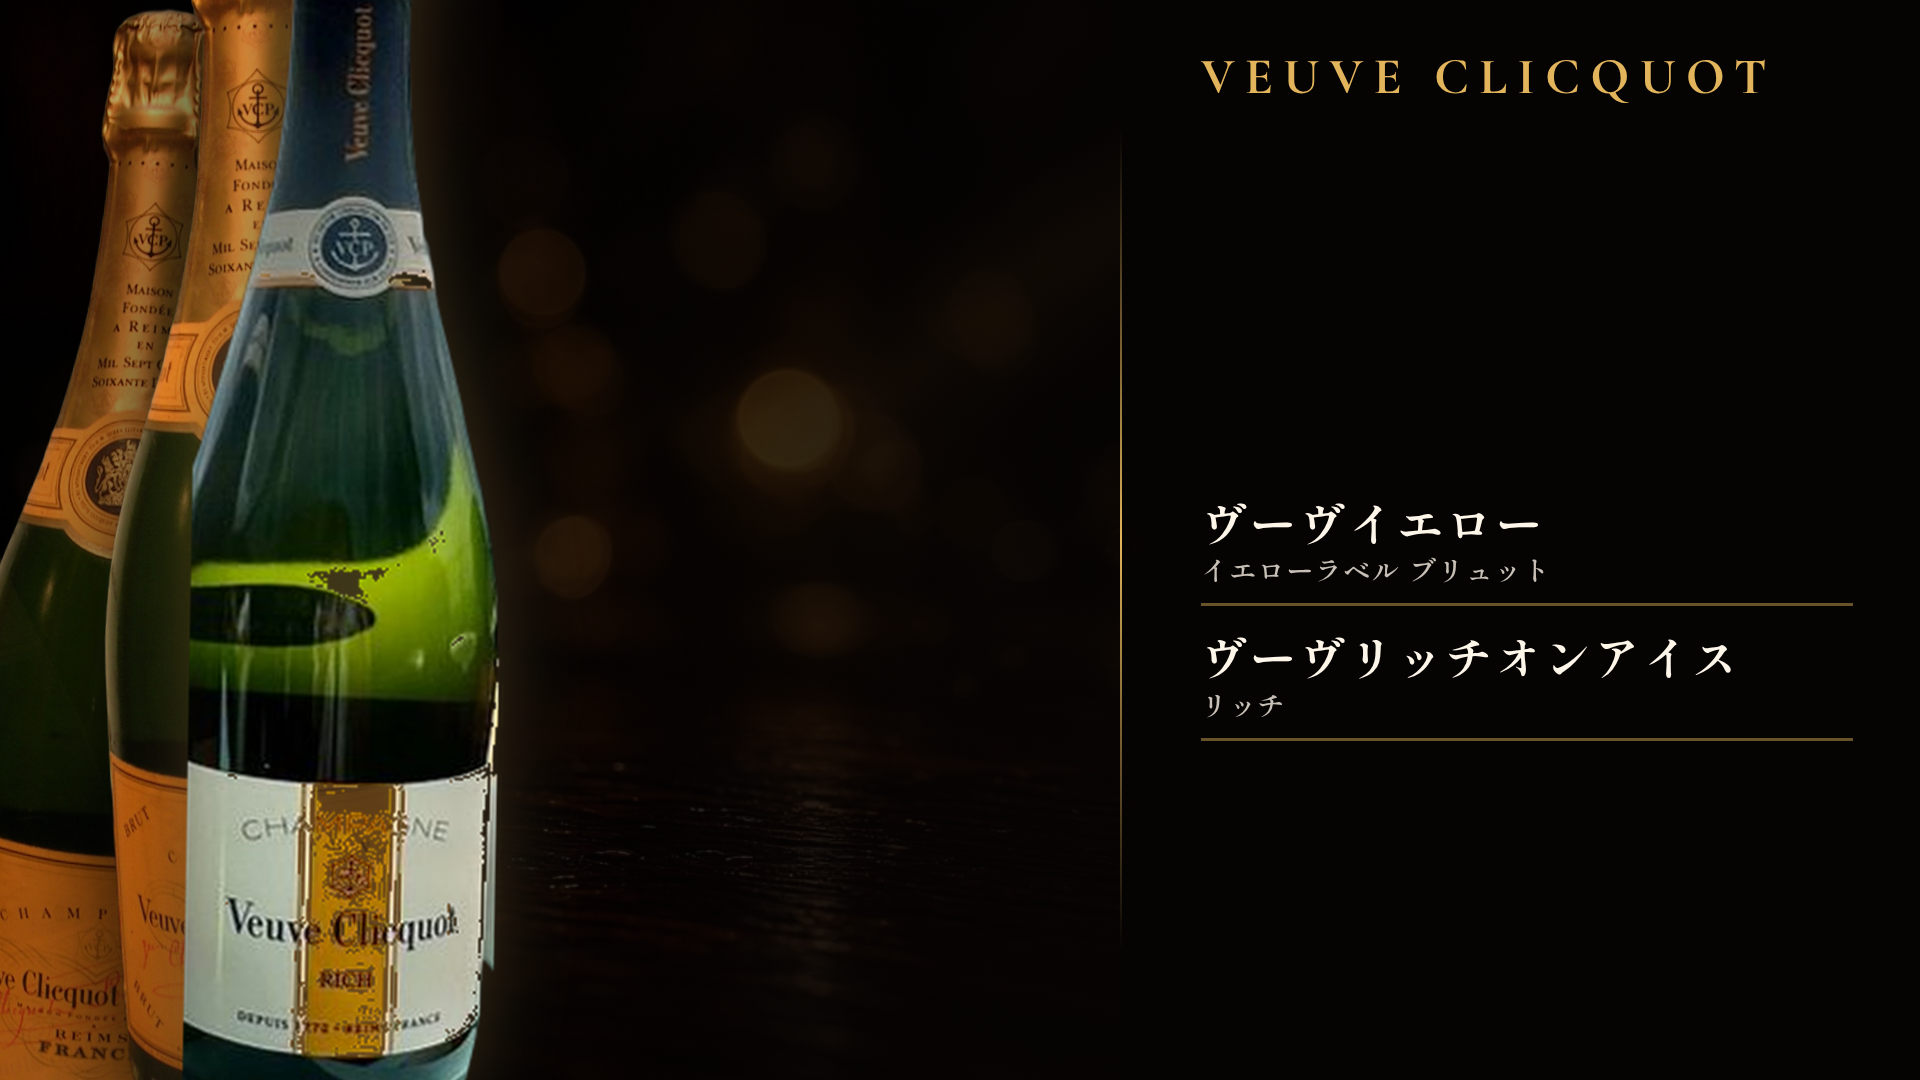
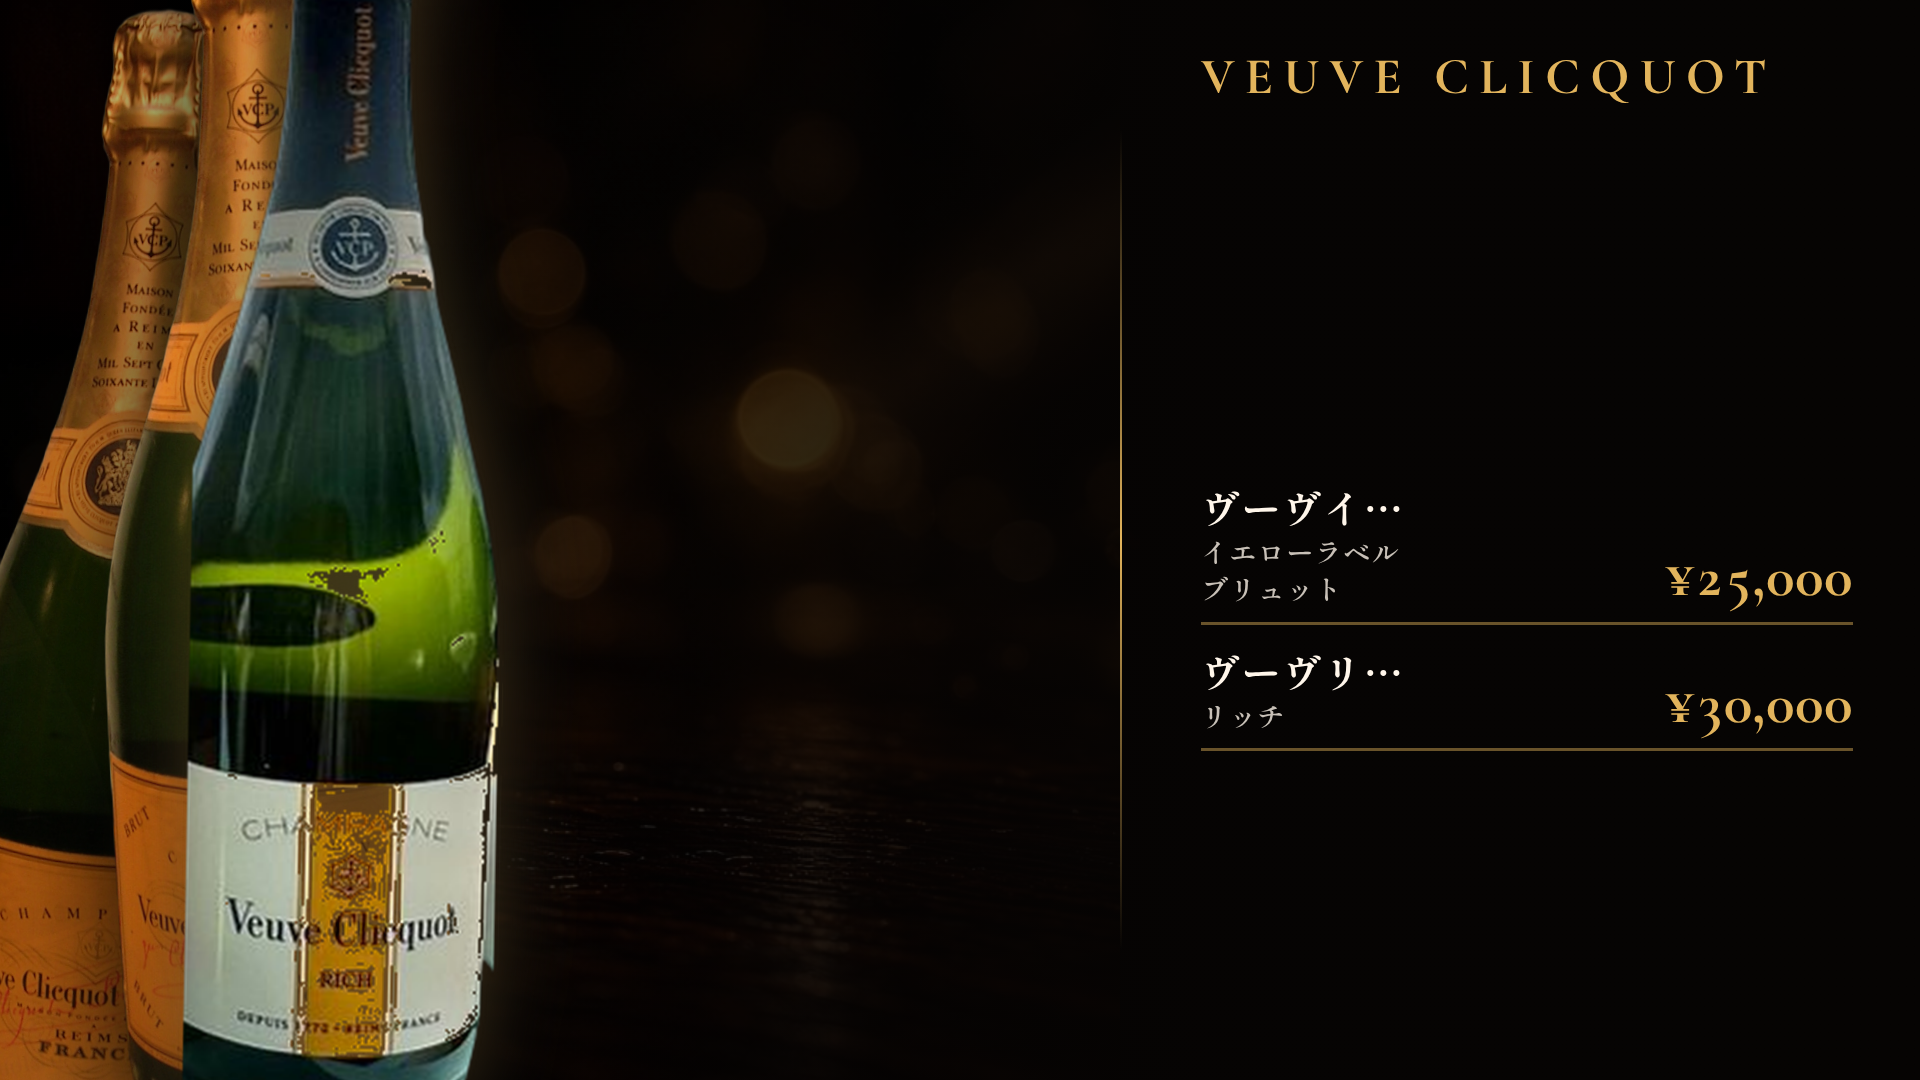
Keep Veuve prices on-screen in a fixed right column
Shrink long nicknames so the price grid column is never clipped.

Changed region(s): [[0.625, 0.4583, 0.9688, 0.7028]]

diff --git a/designs/final-veuve-series.css b/designs/final-veuve-series.css
@@ -12,11 +12,11 @@
 .panel{position:absolute;right:0;top:0;bottom:0;width:min(56vw,800px);z-index:3;padding:0 3.5vw 6vh 4.2vw;display:flex;flex-direction:column;background:linear-gradient(90deg,rgba(6,4,3,.94) 0%,rgba(6,4,3,.98) 10%,rgba(6,4,3,.995) 100%)}
 .panel .title-zone{flex:0 0 22%;display:flex;align-items:flex-start;padding-top:4.5vh;min-height:0}
 .panel .title{position:static;margin:0;transform:none;left:auto;right:auto;top:auto;font-size:clamp(1.9rem,3.6vw,3.2rem);letter-spacing:.2em;white-space:nowrap}
-.list{flex:1;margin-top:0;display:flex;flex-direction:column;justify-content:center;gap:2.4vh;min-height:0}
-.list .nick{white-space:nowrap;font-size:clamp(1.7rem,3.3vw,2.9rem);letter-spacing:.06em}
-.row{display:grid;grid-template-columns:minmax(0,1fr) 9em;align-items:end;column-gap:1.4rem;border-bottom:3px solid rgba(226,180,92,.45);padding-bottom:1.4vh}
-.row>div{min-width:0}
-.list .price{justify-self:stretch;text-align:right;width:9em;margin:0;font-variant-numeric:tabular-nums;font-feature-settings:"tnum"}
+.list{flex:1;margin-top:0;display:flex;flex-direction:column;justify-content:center;gap:2.4vh;min-height:0;width:100%}
+.list .nick{white-space:nowrap;font-size:clamp(1.45rem,2.7vw,2.45rem);letter-spacing:.04em;overflow:hidden;text-overflow:ellipsis}
+.row{display:grid;grid-template-columns:minmax(0,1fr) auto;align-items:end;column-gap:1.6rem;width:100%;border-bottom:3px solid rgba(226,180,92,.45);padding-bottom:1.4vh}
+.row>div{min-width:0;overflow:hidden}
+.list .price{justify-self:end;text-align:right;white-space:nowrap;min-width:6.8em;font-variant-numeric:tabular-nums;font-feature-settings:"tnum";margin:0}
 .panel::before{content:"";position:absolute;left:0;top:12%;bottom:12%;width:2px;background:linear-gradient(180deg,transparent,var(--gold),transparent)}
 .ghost{display:none}.floor{display:none}
 
